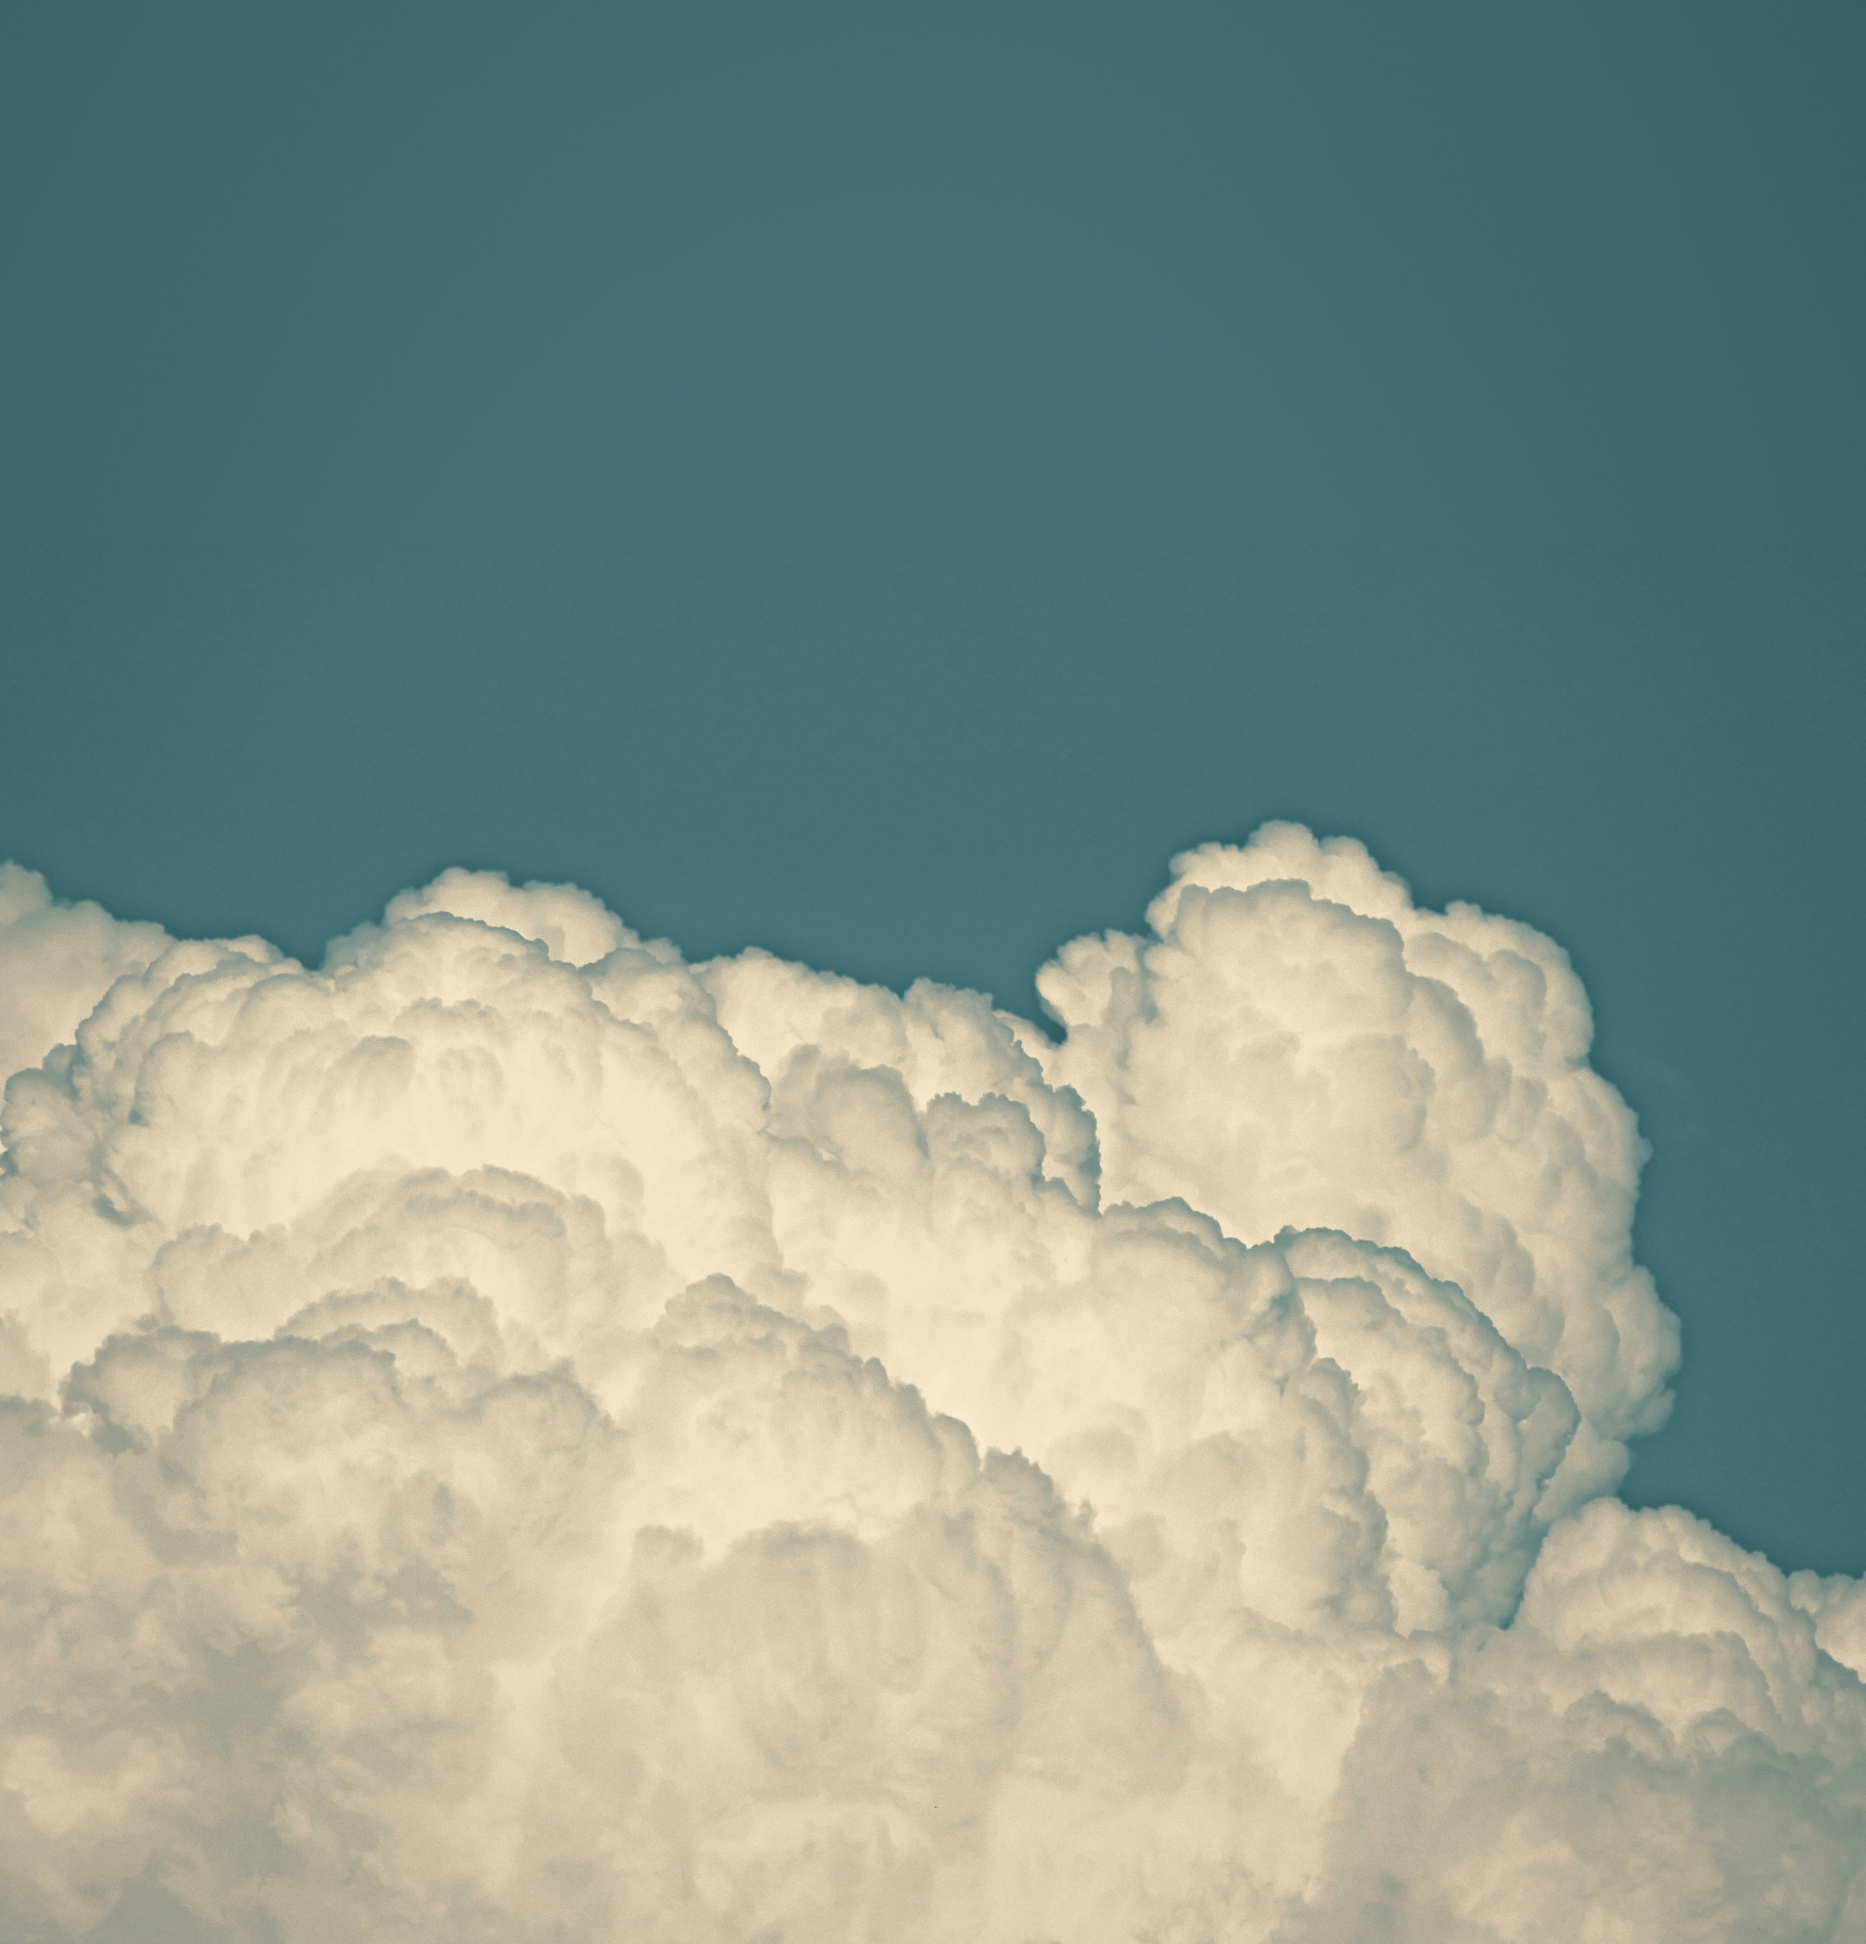
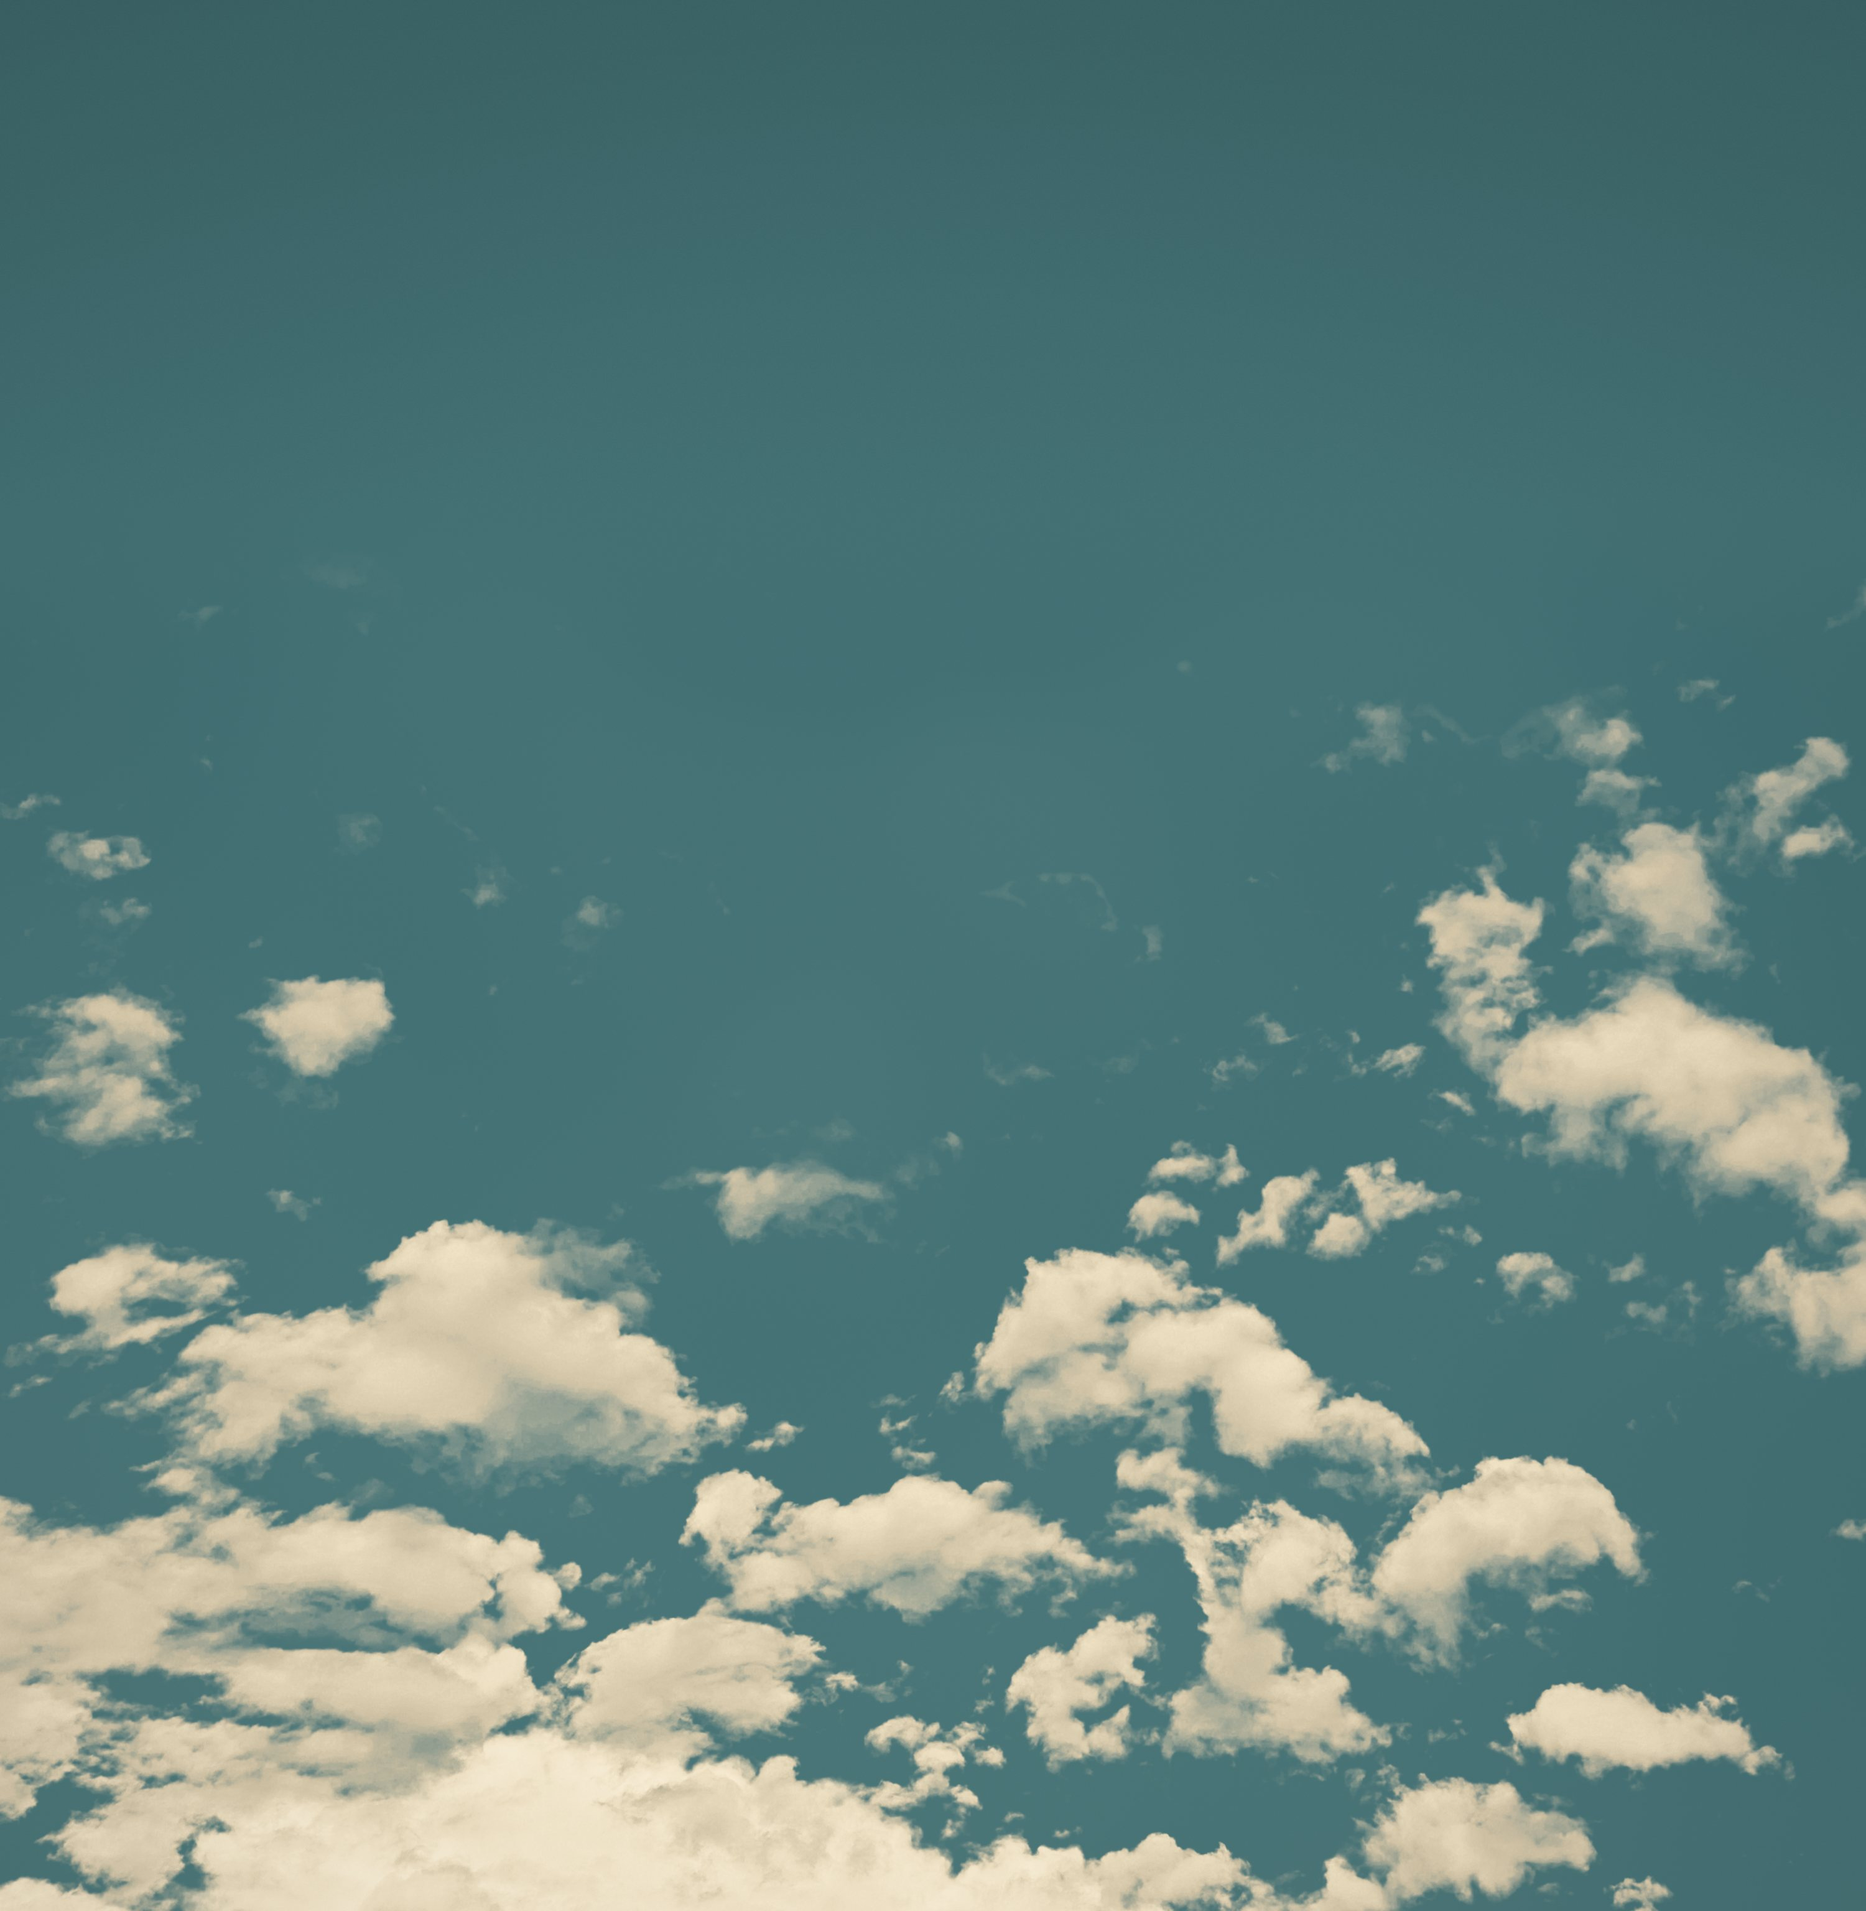
Scattered-cloud background and 14 unique front clouds
- Background: replaced the single big cumulus bank with a sky full of
  smaller scattered cumulus (Masum Bin Zafar / Unsplash), recoloured to
  the trifold's cyan sky and cream clouds via a saturation-based cloud
  mask, clouds cut by the top edge removed, clear sky added on top for
  the hero. 3600 px WebP (260 KB) + 3000 px JPEG fallback.
- Front clouds: 14 different real clouds, each cut out of one of six
  Unsplash photos (single-cloud shots and separable clusters), recoloured
  to match; no shape is repeated. Replaces the 5 reused wisps.
- Credits in the footer and README updated; asset versions bumped to ?v=7.

Claude-Session: https://claude.ai/code/session_01T6XngfoKPw6bJuYM5Xkp8i

diff --git a/index.html b/index.html
@@ -18,13 +18,13 @@
   <link rel="preconnect" href="https://fonts.googleapis.com" />
   <link rel="preconnect" href="https://fonts.gstatic.com" crossorigin />
   <link href="https://fonts.googleapis.com/css2?family=Poppins:ital,wght@0,300;0,400;0,500;1,300&display=swap" rel="stylesheet" />
-  <link rel="preload" href="images/sky.webp?v=6" as="image" type="image/webp" />
+  <link rel="preload" href="images/sky.webp?v=7" as="image" type="image/webp" />
   <!-- Bump ?v= whenever styles.css, script.js or the images change, so browsers fetch the new files -->
-  <link rel="stylesheet" href="styles.css?v=6" />
+  <link rel="stylesheet" href="styles.css?v=7" />
 
   <!-- Smooth scrolling (optional: the site works without it) -->
   <script async id="lenis-js" src="https://cdn.jsdelivr.net/npm/lenis@1.3.21/dist/lenis.min.js" integrity="sha384-gVlw6UbXEhqWLqohIEO63Xj7zY5Q/jtHXX2C3kYEl5+yDgY7LYwv7aPIhrVoZBky" crossorigin="anonymous"></script>
-  <script defer src="script.js?v=6"></script>
+  <script defer src="script.js?v=7"></script>
 </head>
 <body>
   <a class="skip-link" href="#main">Skip to content</a>
@@ -38,23 +38,23 @@
       data-x      where across the screen its middle sits, in % of the width (under 0 or over 100 hangs off the edge)
       data-size   width, in % of the screen width
       data-speed  how fast it moves compared with the page. Faster ones look closer (about 1.2 to 1.8)
-    On phones only every other cloud is shown. Delete this whole <div> to turn the effect off.
+    Each cloud is its own cut-out (images/cloud-01 … cloud-14). Delete this whole <div> to turn the effect off.
   -->
   <div class="fore" aria-hidden="true">
-    <img class="wisp" src="images/cloud-1.webp?v=6" alt="" data-at="0.04" data-x="92" data-size="18" data-speed="1.5" />
-    <img class="wisp wisp--flip" src="images/cloud-3.webp?v=6" alt="" data-at="0.11" data-x="6" data-size="13" data-speed="1.25" />
-    <img class="wisp" src="images/cloud-2.webp?v=6" alt="" data-at="0.18" data-x="88" data-size="21" data-speed="1.7" />
-    <img class="wisp" src="images/cloud-4.webp?v=6" alt="" data-at="0.25" data-x="10" data-size="18" data-speed="1.55" />
-    <img class="wisp wisp--flip" src="images/cloud-5.webp?v=6" alt="" data-at="0.32" data-x="96" data-size="13" data-speed="1.25" />
-    <img class="wisp wisp--flip" src="images/cloud-1.webp?v=6" alt="" data-at="0.39" data-x="4" data-size="22" data-speed="1.75" />
-    <img class="wisp" src="images/cloud-3.webp?v=6" alt="" data-at="0.46" data-x="90" data-size="15" data-speed="1.4" />
-    <img class="wisp wisp--flip" src="images/cloud-2.webp?v=6" alt="" data-at="0.53" data-x="8" data-size="17" data-speed="1.5" />
-    <img class="wisp wisp--flip" src="images/cloud-4.webp?v=6" alt="" data-at="0.6" data-x="94" data-size="21" data-speed="1.7" />
-    <img class="wisp" src="images/cloud-5.webp?v=6" alt="" data-at="0.67" data-x="3" data-size="13" data-speed="1.25" />
-    <img class="wisp" src="images/cloud-1.webp?v=6" alt="" data-at="0.74" data-x="89" data-size="19" data-speed="1.6" />
-    <img class="wisp" src="images/cloud-2.webp?v=6" alt="" data-at="0.81" data-x="9" data-size="21" data-speed="1.7" />
-    <img class="wisp wisp--flip" src="images/cloud-3.webp?v=6" alt="" data-at="0.88" data-x="95" data-size="15" data-speed="1.4" />
-    <img class="wisp" src="images/cloud-4.webp?v=6" alt="" data-at="0.95" data-x="6" data-size="17" data-speed="1.5" />
+    <img class="wisp" src="images/cloud-02.webp?v=7" alt="" data-at="0.04" data-x="92" data-size="20" data-speed="1.6" />
+    <img class="wisp" src="images/cloud-08.webp?v=7" alt="" data-at="0.11" data-x="7" data-size="13" data-speed="1.3" />
+    <img class="wisp" src="images/cloud-04.webp?v=7" alt="" data-at="0.18" data-x="89" data-size="22" data-speed="1.7" />
+    <img class="wisp" src="images/cloud-06.webp?v=7" alt="" data-at="0.25" data-x="9" data-size="17" data-speed="1.5" />
+    <img class="wisp" src="images/cloud-10.webp?v=7" alt="" data-at="0.32" data-x="95" data-size="12" data-speed="1.25" />
+    <img class="wisp" src="images/cloud-01.webp?v=7" alt="" data-at="0.39" data-x="5" data-size="22" data-speed="1.75" />
+    <img class="wisp" src="images/cloud-13.webp?v=7" alt="" data-at="0.46" data-x="91" data-size="15" data-speed="1.4" />
+    <img class="wisp" src="images/cloud-03.webp?v=7" alt="" data-at="0.53" data-x="8" data-size="18" data-speed="1.55" />
+    <img class="wisp" src="images/cloud-14.webp?v=7" alt="" data-at="0.6" data-x="93" data-size="21" data-speed="1.7" />
+    <img class="wisp" src="images/cloud-09.webp?v=7" alt="" data-at="0.67" data-x="4" data-size="12" data-speed="1.25" />
+    <img class="wisp" src="images/cloud-05.webp?v=7" alt="" data-at="0.74" data-x="90" data-size="17" data-speed="1.5" />
+    <img class="wisp" src="images/cloud-07.webp?v=7" alt="" data-at="0.81" data-x="9" data-size="20" data-speed="1.65" />
+    <img class="wisp" src="images/cloud-11.webp?v=7" alt="" data-at="0.88" data-x="95" data-size="13" data-speed="1.35" />
+    <img class="wisp" src="images/cloud-12.webp?v=7" alt="" data-at="0.95" data-x="6" data-size="16" data-speed="1.45" />
   </div>
 
   <!-- NAV: the links are built automatically from every <section data-nav="..."> below -->
@@ -447,7 +447,7 @@
     <p class="footer__mark" data-split="chars">Cerita Nyata</p>
     <div class="footer__row">
       <p>© <span data-year>2026</span> Cerita Nyata. A student-founded CAS project.</p>
-      <p>Sky photo: Linus Belanger / Unsplash</p>
+      <p>Sky photos: Masum Bin Zafar and others / Unsplash</p>
       <a href="https://www.instagram.com/cerit4nyata/" target="_blank" rel="noopener">Instagram @cerit4nyata</a>
       <a href="#top">Back to top ↑</a>
     </div>

diff --git a/styles.css b/styles.css
@@ -155,8 +155,8 @@ html.lenis body {
   z-index: -2;
   height: 140vh;
   height: 140lvh;
-  background: var(--sky) url("images/sky.jpg?v=6") 50% 0% / cover no-repeat;
-  background-image: image-set(url("images/sky.webp?v=6") type("image/webp"), url("images/sky.jpg?v=6") type("image/jpeg"));
+  background: var(--sky) url("images/sky.jpg?v=7") 50% 0% / cover no-repeat;
+  background-image: image-set(url("images/sky.webp?v=7") type("image/webp"), url("images/sky.jpg?v=7") type("image/jpeg"));
   transform-origin: 50% 30%;
   will-change: transform;
 }

diff --git a/README.md b/README.md
@@ -19,7 +19,7 @@ or back up: once a box has left the screen it resets, so it draws in again.
 | `styles.css` | Colours, fonts, layout, animations. Colours and sizes are at the top (`:root`). |
 | `script.js` | Makes it move: builds the nav, draws the frames, reveals text, scroll effects. You shouldn't need to edit it. |
 | `images/sky.webp` | The background (3600 px wide). `images/sky.jpg` is a fallback for older browsers. |
-| `images/wisp-1.webp` … `wisp-3.webp` | Soft clouds for the 3D layer that drifts in front of the page. |
+| `images/cloud-01.webp` … `cloud-14.webp` | The clouds that drift in front of the page. Each one is a different real cloud. |
 | `images/team/` | Teammate photos (see **Team panels** below). |
 
 ## Editing text
@@ -142,10 +142,10 @@ change the `subject` field to change that.
 
 GitHub Pages tells browsers to keep each file for up to 10 minutes. So that
 visitors never get a new page with an old script or stylesheet, `index.html`
-loads them with a version number: `styles.css?v=6`, `script.js?v=6`, and the
-images as `images/sky.webp?v=6` etc. (in `index.html` and `styles.css`).
+loads them with a version number: `styles.css?v=7`, `script.js?v=7`, and the
+images as `images/sky.webp?v=7` etc. (in `index.html` and `styles.css`).
 **Whenever you change `styles.css`, `script.js` or the background, raise that
-number everywhere it appears** (e.g. to `?v=7`). Changes to `index.html` alone
+number everywhere it appears** (e.g. to `?v=8`). Changes to `index.html` alone
 don't need it. If you still see an old version, hard-refresh with
 Ctrl+Shift+R (Cmd+Shift+R on a Mac).
 
@@ -162,11 +162,17 @@ branch → Branch: `main`, folder: `/ (root)` → Save.** The site goes live at
 
 ## Credits & notes
 
-- Background photo: [Linus Belanger on Unsplash](https://unsplash.com/photos/fluffy-white-clouds-contrast-against-a-dark-blue-sky-3M_qkybLtq4)
-  (Unsplash License, free to use). Built from the 6000 px original: sky
-  extended upward, extra local contrast for fuller clouds, sensor noise
-  smoothed in the plain sky, colour-graded to the Cerita Nyata trifold's cyan.
-  The front clouds are cut from the same photo.
+- Background photo: [Masum Bin Zafar on Unsplash](https://unsplash.com/photos/blue-sky-filled-with-scattered-white-cumulus-clouds-rdtPPy49BSg)
+  (Unsplash License, free to use): scattered small cumulus, recoloured to the
+  Cerita Nyata trifold's cyan sky and cream clouds, with clear sky added on top.
+- Front clouds: each is a single cloud cut out of one of these Unsplash photos
+  (Unsplash License) and recoloured to match:
+  [arrow cloud](https://unsplash.com/photos/a-cloud-shaped-like-an-arrow-in-a-blue-sky-ruOG4S8JbnQ),
+  [single fluffy cloud](https://unsplash.com/photos/a-single-fluffy-cloud-against-a-clear-blue-sky-G4TdiC2dzsQ),
+  [white cloud on deep blue](https://unsplash.com/photos/a-single-white-cloud-against-a-deep-blue-sky-GdPAjMyuWJ8),
+  [fluffy clouds in clear sky](https://unsplash.com/photos/fluffy-white-clouds-in-a-clear-blue-sky-NxvEswaIKJc),
+  [blue sky with white clouds](https://unsplash.com/photos/a-blue-sky-with-white-clouds-_YCQqc4TCyA),
+  [cloudy sky at daytime](https://unsplash.com/photos/cloudy-sky-at-daytime-v9bnfMCyKbg).
 - Font: [Poppins](https://fonts.google.com/specimen/Poppins) (Google Fonts).
 - Smooth scrolling: [Lenis](https://github.com/darkroomengineering/lenis),
   loaded from jsDelivr. If it fails to load, the site still works with normal
